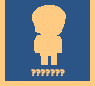
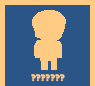
implemented start screen

diff --git a/bubble-shooter-example.js b/bubble-shooter-example.js
@@ -21,6 +21,8 @@
 // The function gets called when the window is fully loaded
 window.onload = function() {
     // Get the canvas and context
+    var startscreen = document.getElementById("startscreen");
+    var startscreencontext = startscreen.getContext("2d");
     var canvas = document.getElementById("viewport");
     var context = canvas.getContext("2d");
     var IS_IOS = /iPad|iPhone|iPod/.test(window.navigator.platform);
@@ -100,9 +102,9 @@ window.onload = function() {
 
     
     // Game states
-    var gamestates = { init: 0, ready: 1, shootbubble: 2, removecluster: 3, gameover: 4, win: 5};
-    var gamestate = gamestates.init;
-    var playable = false;
+    var gamestates = { init: 0, ready: 1, shootbubble: 2, removecluster: 3, gameover: 4, win: 5, startscreen: 6};
+    var gamestate = gamestates.startscreen;
+    var playable = true;
     
     // Score
     var score = 0;
@@ -197,6 +199,7 @@ window.onload = function() {
         canvas.addEventListener("touchstart", onTouchStart);
         canvas.addEventListener("touchend", onTouchEnd);
         canvas.addEventListener("mouseup", onMouseUp);
+        startscreen.addEventListener("mousedown", onStartScreenMousedown);
         
         // Initialize the two-dimensional tile array
         for (var i=0; i<level.columns; i++) {
@@ -259,6 +262,7 @@ window.onload = function() {
     
     // Main loop
     function main(tframe) {
+        console.log(gamestate);
         // Request animation frames
         window.requestAnimationFrame(main);
         if ( Date.now()<releaseDate && playable == false){
@@ -268,14 +272,14 @@ window.onload = function() {
             canvas.height = document.documentElement.clientHeight;
             canvas.width = document.documentElement.clientWidth;
             machineWidth = 0.675*(document.documentElement.clientHeight*0.85);
-            context.drawImage(preview,(document.documentElement.clientWidth/2)-(machineWidth/2),0,machineWidth,document.documentElement.clientHeight)
+            context.drawImage(preview,(document.documentElement.clientWidth/2)-(machineWidth/2),0,machineWidth,document.documentElement.clientHeight);
+        } else {
 
-           
-        } else if (!initialized) {
+            if (!initialized) {
             // Preloader
             
             // Clear the canvas
-            context.clearRect(0, 0, canvas.width, canvas.height);
+            context.clearRect(0, 0, document.documentElement.clientWidth, document.documentElement.clientWidth);
             
             // Draw the frame
             drawFrame();
@@ -296,12 +300,24 @@ window.onload = function() {
             
             if (preloaded) {
                 // Add a delay for demonstration purposes
-                setTimeout(function(){initialized = true;}, 1000);
+                setTimeout(function(){initialized = true;}, 0);
             }
         } else {
             // Update and render the game
+            context.clearRect(0, 0, document.documentElement.clientWidth, document.documentElement.clientWidth);
             update(tframe);
             render();
+            }
+        if(gamestate == gamestates.startscreen){
+            console.log("start screen");
+            canvas.style.display = "none";
+            document.body.style.backgroundColor = "transparent";
+            document.body.style.backgroundImage = "url('background.png')";
+            startscreen.height = document.documentElement.clientHeight;
+            startscreen.width = document.documentElement.clientWidth;
+            machineWidth = 0.675*(document.documentElement.clientHeight*0.85);
+            startscreencontext.drawImage(arcadeMachine,(document.documentElement.clientWidth/2)-(machineWidth/2),0,machineWidth,document.documentElement.clientHeight);
+        }
         }
     }
     
@@ -926,6 +942,9 @@ window.onload = function() {
     
     // Draw a frame around the game
     function drawFrame() {
+        context.clearRect(0, 0, window.innerWidth,window.innerHeight);
+        document.backgroundColor = "black";
+        document.backgroundImage = "";
     	context.drawImage(frame,0,0,600,770);
     	// Draw new frame
     	// context.fillRect(0, 0, canvas.width, canvas.height);
@@ -1085,8 +1104,8 @@ window.onload = function() {
         turncounter = 0;
         rowoffset = 0;
         
-        // Set the gamestate to ready
-        setGameState(gamestates.ready);
+        // Set the gamestate to start screen
+        setGameState(gamestates.startscreen);
         
         // Create the level
         createLevel();
@@ -1241,6 +1260,14 @@ window.onload = function() {
     function onTouchEnd(e){
         console.log("Touch ended");
         onMouseUp(e);
+    }
+    function onStartScreenMousedown(e) {
+        if(gamestate == gamestates.startscreen){
+            setGameState(gamestates.ready);
+            startscreencontext.clearRect(0,0,document.documentElement.clientWidth,document.documentElement.clientHeight);
+            startscreen.style.display = "none";
+            canvas.style.display = "block";
+        }
     }
     // On mouse button click
     function onMouseDown(e) {

diff --git a/index.html b/index.html
@@ -47,19 +47,20 @@
         canvas {
             width: auto;
             height: 100vh;
-            }
+        }
     }
 
     @media (orientation: portrait) {
         canvas {
             width: 98vw;
             height: auto;
-            }
+        }
     }
 </style>
 </head>
 
 <body>
+<canvas id="startscreen"></canvas>
 <canvas id="viewport" width="600" height="770"></canvas></div>
 <table id="selecttable"></table>
 </body>
